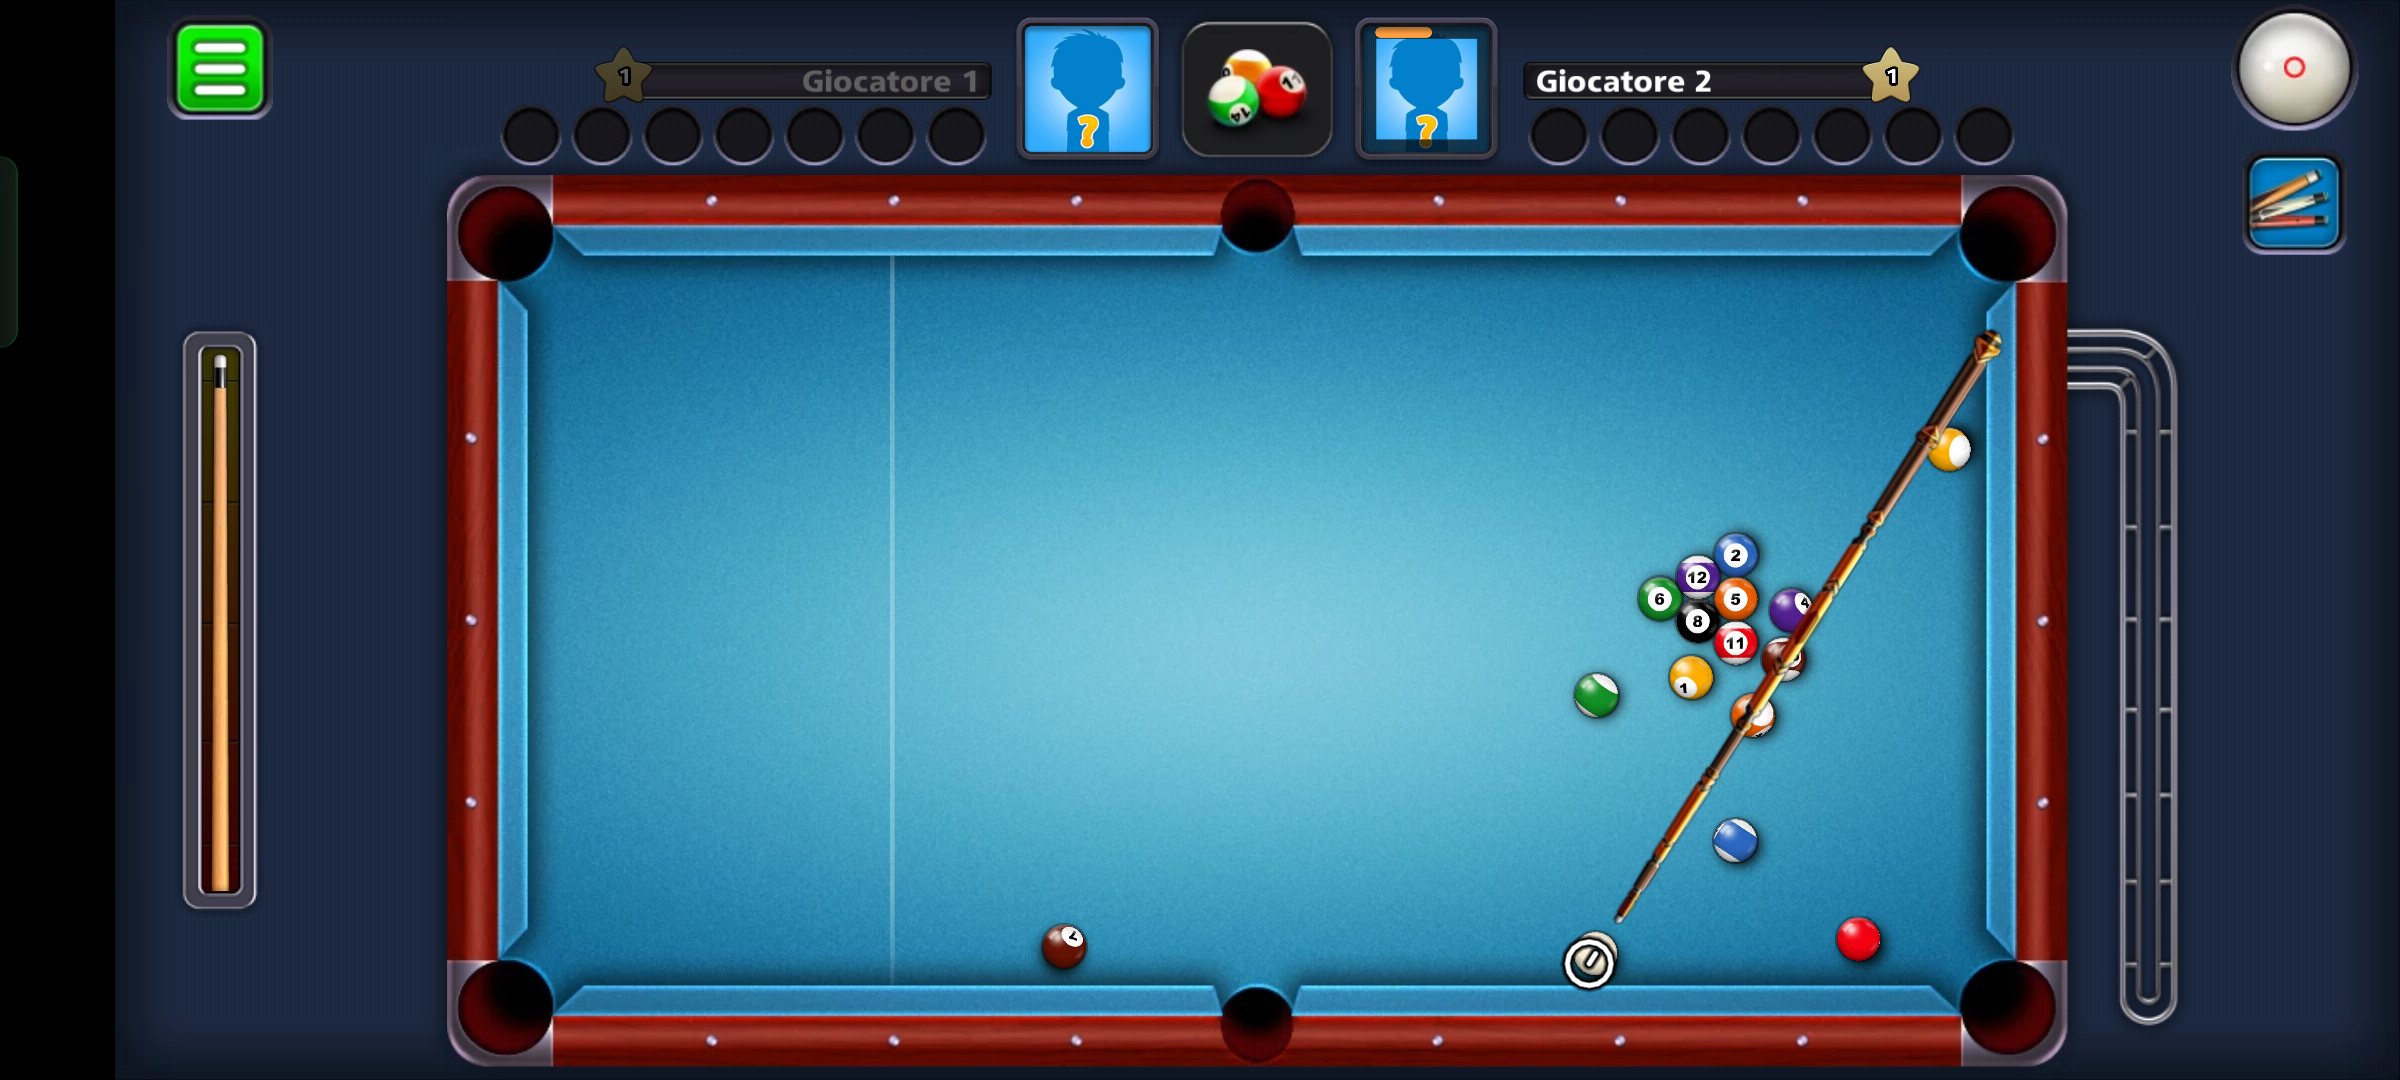
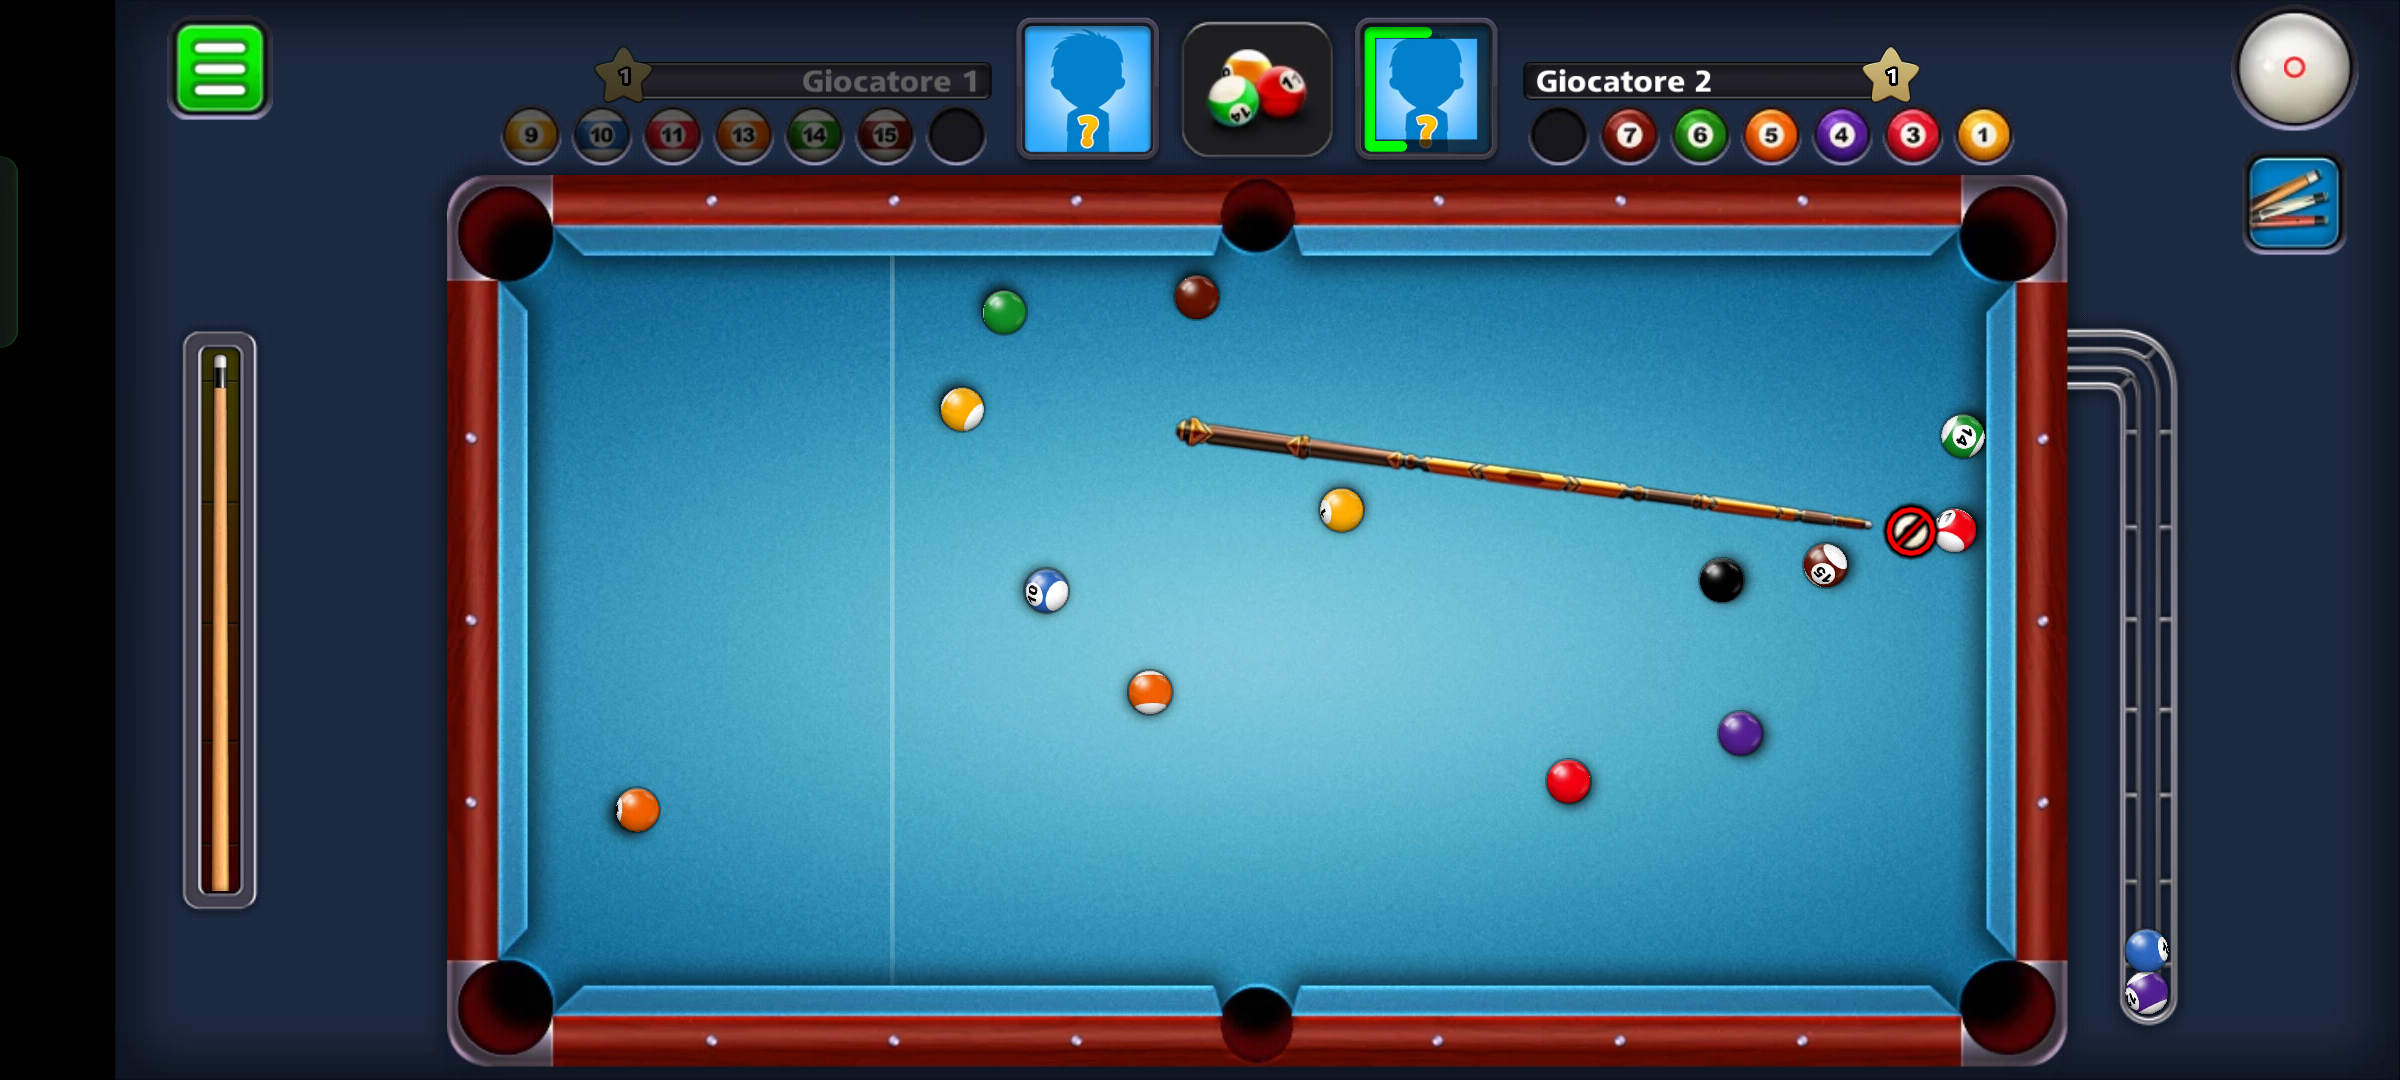
assegnato tipo palla giocatore

diff --git a/Brain/AI/src/ball_pool/dlvsolution/helpers.py b/Brain/AI/src/ball_pool/dlvsolution/helpers.py
@@ -504,43 +504,96 @@ def choose_dlv_system() -> DesktopHandler:
 def choose_clingo_system() -> DesktopHandler:
     return DesktopHandler(ClingoDesktopService("/usr/bin/clingo"))
 
+def is_in_between(white, target, other):
+    """
+    Verifica se la pallina 'other' si trova sul segmento tra la pallina bianca 'white'
+    e la pallina target, considerando la soglia BALL_RADIUS.
+    """
+    # Vettore dal punto di partenza (white) al target
+    dx = target.get_x() - white.get_x()
+    dy = target.get_y() - white.get_y()
+    segment_length = sqrt(dx**2 + dy**2)
+    if segment_length == 0:
+        return False
+
+    # Calcola la proiezione del vettore (other - white) su (target - white)
+    t = ((other.get_x() - white.get_x()) * dx + (other.get_y() - white.get_y()) * dy) / (segment_length**2)
+    
+    # Se la proiezione non cade sul segmento, non è in mezzo
+    if t < 0 or t > 1:
+        return False
+
+    # Punto di proiezione sul segmento
+    proj_x = white.get_x() + t * dx
+    proj_y = white.get_y() + t * dy
+
+    # Distanza tra il punto proiettato e il centro della pallina 'other'
+    dist = sqrt((other.get_x() - proj_x)**2 + (other.get_y() - proj_y)**2)
+    
+    return dist < 25
+
+def is_path_clear(white, target, balls):
+    """
+    Verifica che non esista nessuna pallina diversa da quella bianca e dalla pallina target
+    che si trovi tra la palla bianca e la pallina target.
+    """
+    for other in balls:
+        if other == white or other == target:
+            continue
+        if is_in_between(white, target, other):
+            return False
+    return True
+
 def get_pockets_and_near_ball(balls: list, pockets: list, ball_type="solid"):
     """
     Per ogni pallina del tipo indicato, individua la pocket più vicina (rispetto a tutte le pocket)
     e la associa a quella pocket tramite il metodo add_ball. 
-    Una pallina viene assegnata alla pocket per cui la distanza è minima.
+    Viene esclusa la pallina se, tra essa e la palla bianca, è presente un'altra pallina.
     
     Restituisce la lista delle pocket ordinate in base al numero di palline associate.
     """
-    # Per ogni pallina, determina la pocket più vicina
+    # Individua la palla bianca
+    white_ball = next((b for b in balls if b.get_type() == "cue"), None)
+    if white_ball is None:
+        # Se non esiste la palla bianca, procediamo senza il controllo
+        white_ball = None
+
+    # Per ogni pallina, determina la pocket più vicina se il percorso dalla palla bianca è libero
     for ball in balls:
-        if ball.get_type() != ball_type:
+        if ball.get_type() == "cue":
+            continue  # salta la palla bianca
+        
+        # Se è specificato un ball_type, consideriamo solo quelle palline
+        if ball_type is not None and ball.get_type() != ball_type:
             continue
         
+        # Se esiste la palla bianca, controlla che non ci siano palline in mezzo
+        if white_ball and not is_path_clear(white_ball, ball, balls):
+            continue  # esclude la pallina se il percorso non è libero
+
         min_distance = float('inf')
         nearest_pkt = None
-        
-        # Cerca tra tutte le pocket quella con la distanza minima
+
+        # Cerca tra tutte le pocket quella con la distanza minima dalla pallina
         for pkt in pockets:
             distance = sqrt((pkt.get_x() - ball.get_x())**2 + (pkt.get_y() - ball.get_y())**2)
             if distance < min_distance:
                 min_distance = distance
                 nearest_pkt = pkt
-        
+
         # Se è stata trovata una pocket, associa la pallina ad essa
         if nearest_pkt is not None:
             nearest_pkt.add_ball(ball)
             #print(f"Ball id {ball.get_id()} associata a Pocket at ({nearest_pkt.get_x()}, {nearest_pkt.get_y()}) con distanza {min_distance:.2f}")
-    
+
     # Funzione ausiliaria: restituisce il numero di palline associate a una pocket
     def pocket_ball_count(pkt):
-        # Si assume che pkt.get_ball() restituisca una lista di palline associate
+        # Si assume che pkt.get_all_balls() restituisca una lista di palline associate
         return len(pkt.get_all_balls())
-    
+
     # Ordina le pocket in base al numero di palline associate (in ordine crescente)
     sorted_pockets = sorted(pockets, key=pocket_ball_count)
     return sorted_pockets
-
 
 
 

diff --git a/Brain/AI/src/ball_pool/helper.py b/Brain/AI/src/ball_pool/helper.py
@@ -23,7 +23,7 @@ def asp_input(balls_chart):
     # e che get_balls_and_pockets() restituisca due liste: una di Pocket e una di Ball.
     balls, pockets, ghost_ball, aim_line, stick, player1_type = balls_chart
 
-    pocket_ord = get_pockets_and_near_ball(balls, pockets)
+    pocket_ord = get_pockets_and_near_ball(balls, pockets, player1_type)
     #aim_situation = get_aimed_ball_and_aim_line( ghost_ball,stick, aimed_ball, aim_line)
     
     input = pocket_ord.copy()
@@ -85,6 +85,12 @@ def ball_pool(screenshot_path, debug=True, vision_val=None, abstraction_val=True
         vision = matcher.vision(iteration)
         return matcher.abstraction(vision)
 
+    TOLERANCE = 50         # Soglia minima per considerare raggiunto il target
+    MAX_ITERATIONS = 100   # Per evitare loop infiniti
+    MIN_STEP_FACTOR = 0.8  # Valore minimo dello step factor
+    BASE_STEP_FACTOR = 2.0 # Step factor di base
+
+    iteration = 1
 
     while True:
         feedback = Feedback()
@@ -138,33 +144,51 @@ def ball_pool(screenshot_path, debug=True, vision_val=None, abstraction_val=True
             # Recupera la posizione corrente della ghost ball
             g_x, g_y = ghost_ball.get_coordinates()
 
-            # Imposta il fattore iniziale di swipe
-            swipe_factor = 0.7
-
+    
             # Ciclo per muovere la ghost ball verso il target
-            while True:
-                if iteration == 1:
+            while iteration <= MAX_ITERATIONS:
+                """if iteration == 1:
                     pool_power = s_y2
-                    break 
-                dist = math.sqrt((x_target - g_x) ** 2 + (y_target - g_y) ** 2)
+                    break """
+                # Calcola la distanza corrente tra ghost ball (g_x, g_y) e target (x_target, y_target)
+                dx_total = abs(x_target - g_x)
+                dy_total = abs(y_target - g_y)
+                dist = math.hypot(dx_total, dy_total)
+                
+                # Debug
                 if target_ball is not None:
                     print(f"Palla da colpire: {target_ball.get_x(), target_ball.get_y()} {target_ball.get_type()}")
                     print(f"Pocket di destinazione: {pk.get_x(), pk.get_y()}")
                 else:
                     print("Target ball NONE")
                 print("Distanza ghost ball:", dist)
-                if dist < 50:
-                    pool_power = pool_power
+
+                # Se siamo entro la soglia, interrompi il ciclo
+                if dist < TOLERANCE:
+                    pool_power = s_y2
                     break
+                step_factor = max(MIN_STEP_FACTOR, BASE_STEP_FACTOR * (dist / 300))
 
-                # Aggiorna dinamicamente il fattore di swipe
-                swipe_factor *= (dist * 0.3)
-
-                # Calcola nuove coordinate intermedie
-                dx = abs(x_target - g_x)
-                dy = abs(y_target - g_y)
-                new_x = int(g_x + dx * swipe_factor)
-                new_y = int(g_y + dy * swipe_factor)
+                # Calcola il passo da effettuare in base alla differenza tra le coordinate
+                if dy_total > 2 * dx_total:
+                    # Movimento prevalentemente verticale
+                    new_x = g_x
+                    step_y = dy_total * step_factor
+                    new_y = int(g_y + step_y)
+                    print(f"[DEBUG] Swipe verticale: g_y {g_y} -> new_y {new_y} (dy_total: {dy_total:.2f})")
+                elif dx_total > 2 * dy_total:
+                    # Movimento prevalentemente orizzontale
+                    new_y = g_y
+                    step_x = dx_total * step_factor
+                    new_x = int(g_x + step_x)
+                    print(f"[DEBUG] Swipe orizzontale: g_x {g_x} -> new_x {new_x} (dx_total: {dx_total:.2f})")
+                else:
+                    # Movimento diagonale (normale)
+                    step_x = dx_total * step_factor
+                    step_y = dy_total * step_factor
+                    new_x = int(g_x + step_x)
+                    new_y = int(g_y + step_y)
+                    print(f"[DEBUG] Swipe diagonale: da ({g_x}, {g_y}) a ({new_x}, {new_y})")
 
                 #matcher.show_result()
 

diff --git a/Brain/AI/src/vision/objectsFinder.py b/Brain/AI/src/vision/objectsFinder.py
@@ -428,10 +428,11 @@ class ObjectsFinder:
                     continue
                 if not (search_info.min_radius <= radius <= search_info.max_radius):
                     continue
+
                 if search_info.not_this_coordinates is not None:
                     x_not, y_not, r_not = search_info.not_this_coordinates
                     dist = np.sqrt((x - x_not) ** 2 + (y - y_not) ** 2)
-                    if dist <= radius * 0.3 or dist <= r_not * 0.4:
+                    if dist <= radius * 0.9 or dist <= r_not * 0.9:
                         continue
 
             # Escludi contorni esterni (senza genitore)
@@ -462,8 +463,11 @@ class ObjectsFinder:
 
         return self.__filter_duplicate_circles(balls, CIRCLE_MIN_DISTANCE=3)
 
+    def find_assigned_balls(self, search_info: Circle, area_threshold=10, circularity_threshold=0.57):
+        balls = self.find_balls_pool_contour(search_info, area_threshold, circularity_threshold)
+        balls = sorted(balls, key=lambda b: b.x)
+        return [balls[0], balls[len(balls) - 1]]
 
-    
     
     def find_pockets_pool_contour(self, search_info: 'Circle'):
         """
@@ -687,14 +691,19 @@ class ObjectsFinder:
                     continue
                 if not (search_info.min_radius <= radius <= search_info.max_radius):
                     continue
-
+            
+            """print("------------------")
+            print(f"[DEBUG] Contour {i}: Center=({x:.2f}, {y:.2f}), Radius={radius:.2f}")"""
             # Verifica della circularità
             if not self.__bp_is_circle(cnt, circularity_threshold=circularity_threshold, area_threshold=area_threshold):
+                #print(f"[DEBUG] Contour {i} scartato: circularità insufficiente")
                 continue
 
             # Recupera il contorno interno (primo figlio)
             inner_index = hierarchy[i][2]
+            
             if inner_index == -1:
+                #print(f"[DEBUG] Contour {i} scartato: nessun contorno interno")
                 continue
             inner_cnt = contours[inner_index]
             (inner_x, inner_y), inner_r = cv2.minEnclosingCircle(inner_cnt)
@@ -706,6 +715,7 @@ class ObjectsFinder:
             
             mean_border = cv2.mean(gray, mask=mask_border)[0]
             mean_inner = cv2.mean(gray, mask=mask_inner)[0]
+            #print(f"[DEBUG] Contour {i}: mean_inner={mean_inner:.2f}, mean_border={mean_border:.2f}")
 
             # Analisi di eventuali ulteriori contorni interni (figli)
             child_index = hierarchy[i][2]
@@ -716,18 +726,25 @@ class ObjectsFinder:
                 children_intensities.append(cv2.mean(gray, mask=mask_child)[0])
                 child_index = hierarchy[child_index][0]
 
+            #print(f"[DEBUG] Contour {i}: Children intensities={children_intensities}")
             # Se non sono presenti figli, applica un criterio diretto basato sulla differenza di intensità
             if len(children_intensities) == 0:
+                #print(f"[DEBUG] Mean inner: {mean_inner:.2f}, Mean border: {mean_border:.2f}")
                 if mean_inner - mean_border < 160:
+                    #print(f"[DEBUG] Contour {i} scartato: differenza di intensità troppo bassa")
                     continue
                 candidate = (int(x), int(y), int(radius), True)
                 continue
 
             # Se sono presenti, seleziona il candidato basandosi sul massimo valore interno
             max_child_value = max(children_intensities)
-            if max_child_value < 84:
+            #print(f"[DEBUG] Max child value: {max_child_value:.2f}")
+            if max_child_value < 90:
+                #print(f"[DEBUG] Contour {i} scartato: massima intensità interna troppo bassa")
                 continue
-            if max_child_value < max_intensity_child:
+            #print(f"[DEBUG] Max intensity child: {max_child_value:.2f}")
+            if max_child_value <= max_intensity_child:
+                #print(f"[DEBUG] Contour {i} scartato: massima intensità interna inferiore al precedente")
                 continue
 
             max_intensity_child = max_child_value 

diff --git a/Brain/AI/src/ball_pool/detect/new_detect.py b/Brain/AI/src/ball_pool/detect/new_detect.py
@@ -70,6 +70,10 @@ class MatchingBallPool:
         self.__balls: list = []
         self.__pockets: list = []  # Ora i pocket verranno rilevati via circle detection
         self.player1_turn = False
+        self.player1_type = None
+        self.assign_ball_step = 1
+        self.player1_white_ratio = 0.0
+        self.player2_white_ratio = 0.0
 
         #self.table_area = MatchingBallPool.X_MIN, MatchingBallPool.Y_MIN, MatchingBallPool.X_MAX, MatchingBallPool.Y_MAX 
 
@@ -174,21 +178,34 @@ class MatchingBallPool:
                    (self.gx, self.gy, self.gr) if ghost_ball != None else None,
                    )
         )
+        
+        if 1 <= self.assign_ball_step <= 3 and iteration > 1:
 
-        players_balls = self.finder.find_balls_pool_contour(
-            Circle(self.BALLS_MIN_RADIUS-1, 70, self.BALLS_MAX_RADIUS+2,
-                   (self.X_MIN_PLAYER_AREA, 0, self.X_MAX_PLAYER_AREA, self.Y_MAX_PLAYER_AREA),
-                   None,
-                   ), area_threshold=10,circularity_threshold=0.5
-        )
+            players_balls = self.finder.find_assigned_balls(
+                Circle(self.BALLS_MIN_RADIUS-1, 70, self.BALLS_MAX_RADIUS+2,
+                    (self.X_MIN_PLAYER_AREA, 0, self.X_MAX_PLAYER_AREA, self.Y_MAX_PLAYER_AREA),
+                    None,
+                    ), area_threshold=10,circularity_threshold=0.5
+            )
+            if players_balls[0].white_ratio > 0.0:
+                self.player1_white_ratio = players_balls[0].white_ratio
+                self.assign_ball_step += 1
+
+            if players_balls[1].white_ratio > 0.0:
+                self.player2_white_ratio = players_balls[0].white_ratio
+                self.assign_ball_step += 1
+
+            if self.assign_ball_step == 3:
+                self.player1_type = "solid" if self.player1_white_ratio < self.player2_white_ratio else "striped"
+                self.assign_ball_step += 1
+                print(f"Player 1 type: {self.player1_type.upper()}")
+                
 
         # Assegniamo per riferimento interno
         self.__balls = ball_circles
         
         self.__ghost_balls = ghost_ball
         self.__player_squares = player_squares
-        self.__player_balls = players_balls
-        self.player1_type = "solid" if len(players_balls) == 7 else "striped"
         
         if self.player1_turn:
             print("Player 1 turn")
@@ -203,9 +220,7 @@ class MatchingBallPool:
         else:
             print(f"RED Ghost Ball")
 
-        
         print(f"{len(ball_circles)} Balls")
-        print(f"{len(players_balls)} Player balls")
 
         return  ball_circles, ghost_ball, aim_line,self.player1_type
 
@@ -388,16 +403,6 @@ class MatchingBallPool:
                         cv2.FONT_HERSHEY_SIMPLEX, 1, (0, 255, 0), 2)
             
         
-        for ball in self.__player_balls:
-            x, y, r = ball.x, ball.y, ball.radius
-            cv2.circle(img_copy, (x, y), r, (255, 0, 0), 3)
-            cv2.circle(img_copy, (x, y), 6, (0, 0, 0), 1)
-            # Testo con bordo nero e testo verde
-            cv2.putText(img_copy, f"({x}, {y}) {r}", (x + r, y),
-                        cv2.FONT_HERSHEY_SIMPLEX, 1, (0, 0, 0), 4)
-            cv2.putText(img_copy, f"({x}, {y}) {r}", (x + r, y),
-                        cv2.FONT_HERSHEY_SIMPLEX, 1, (255, 0, 0), 2)
-
         # Disegna i pocket (in giallo)
         for pocket in self.__pockets:
             x, y, r = pocket.get_x(), pocket.get_y(), pocket.get_r()
